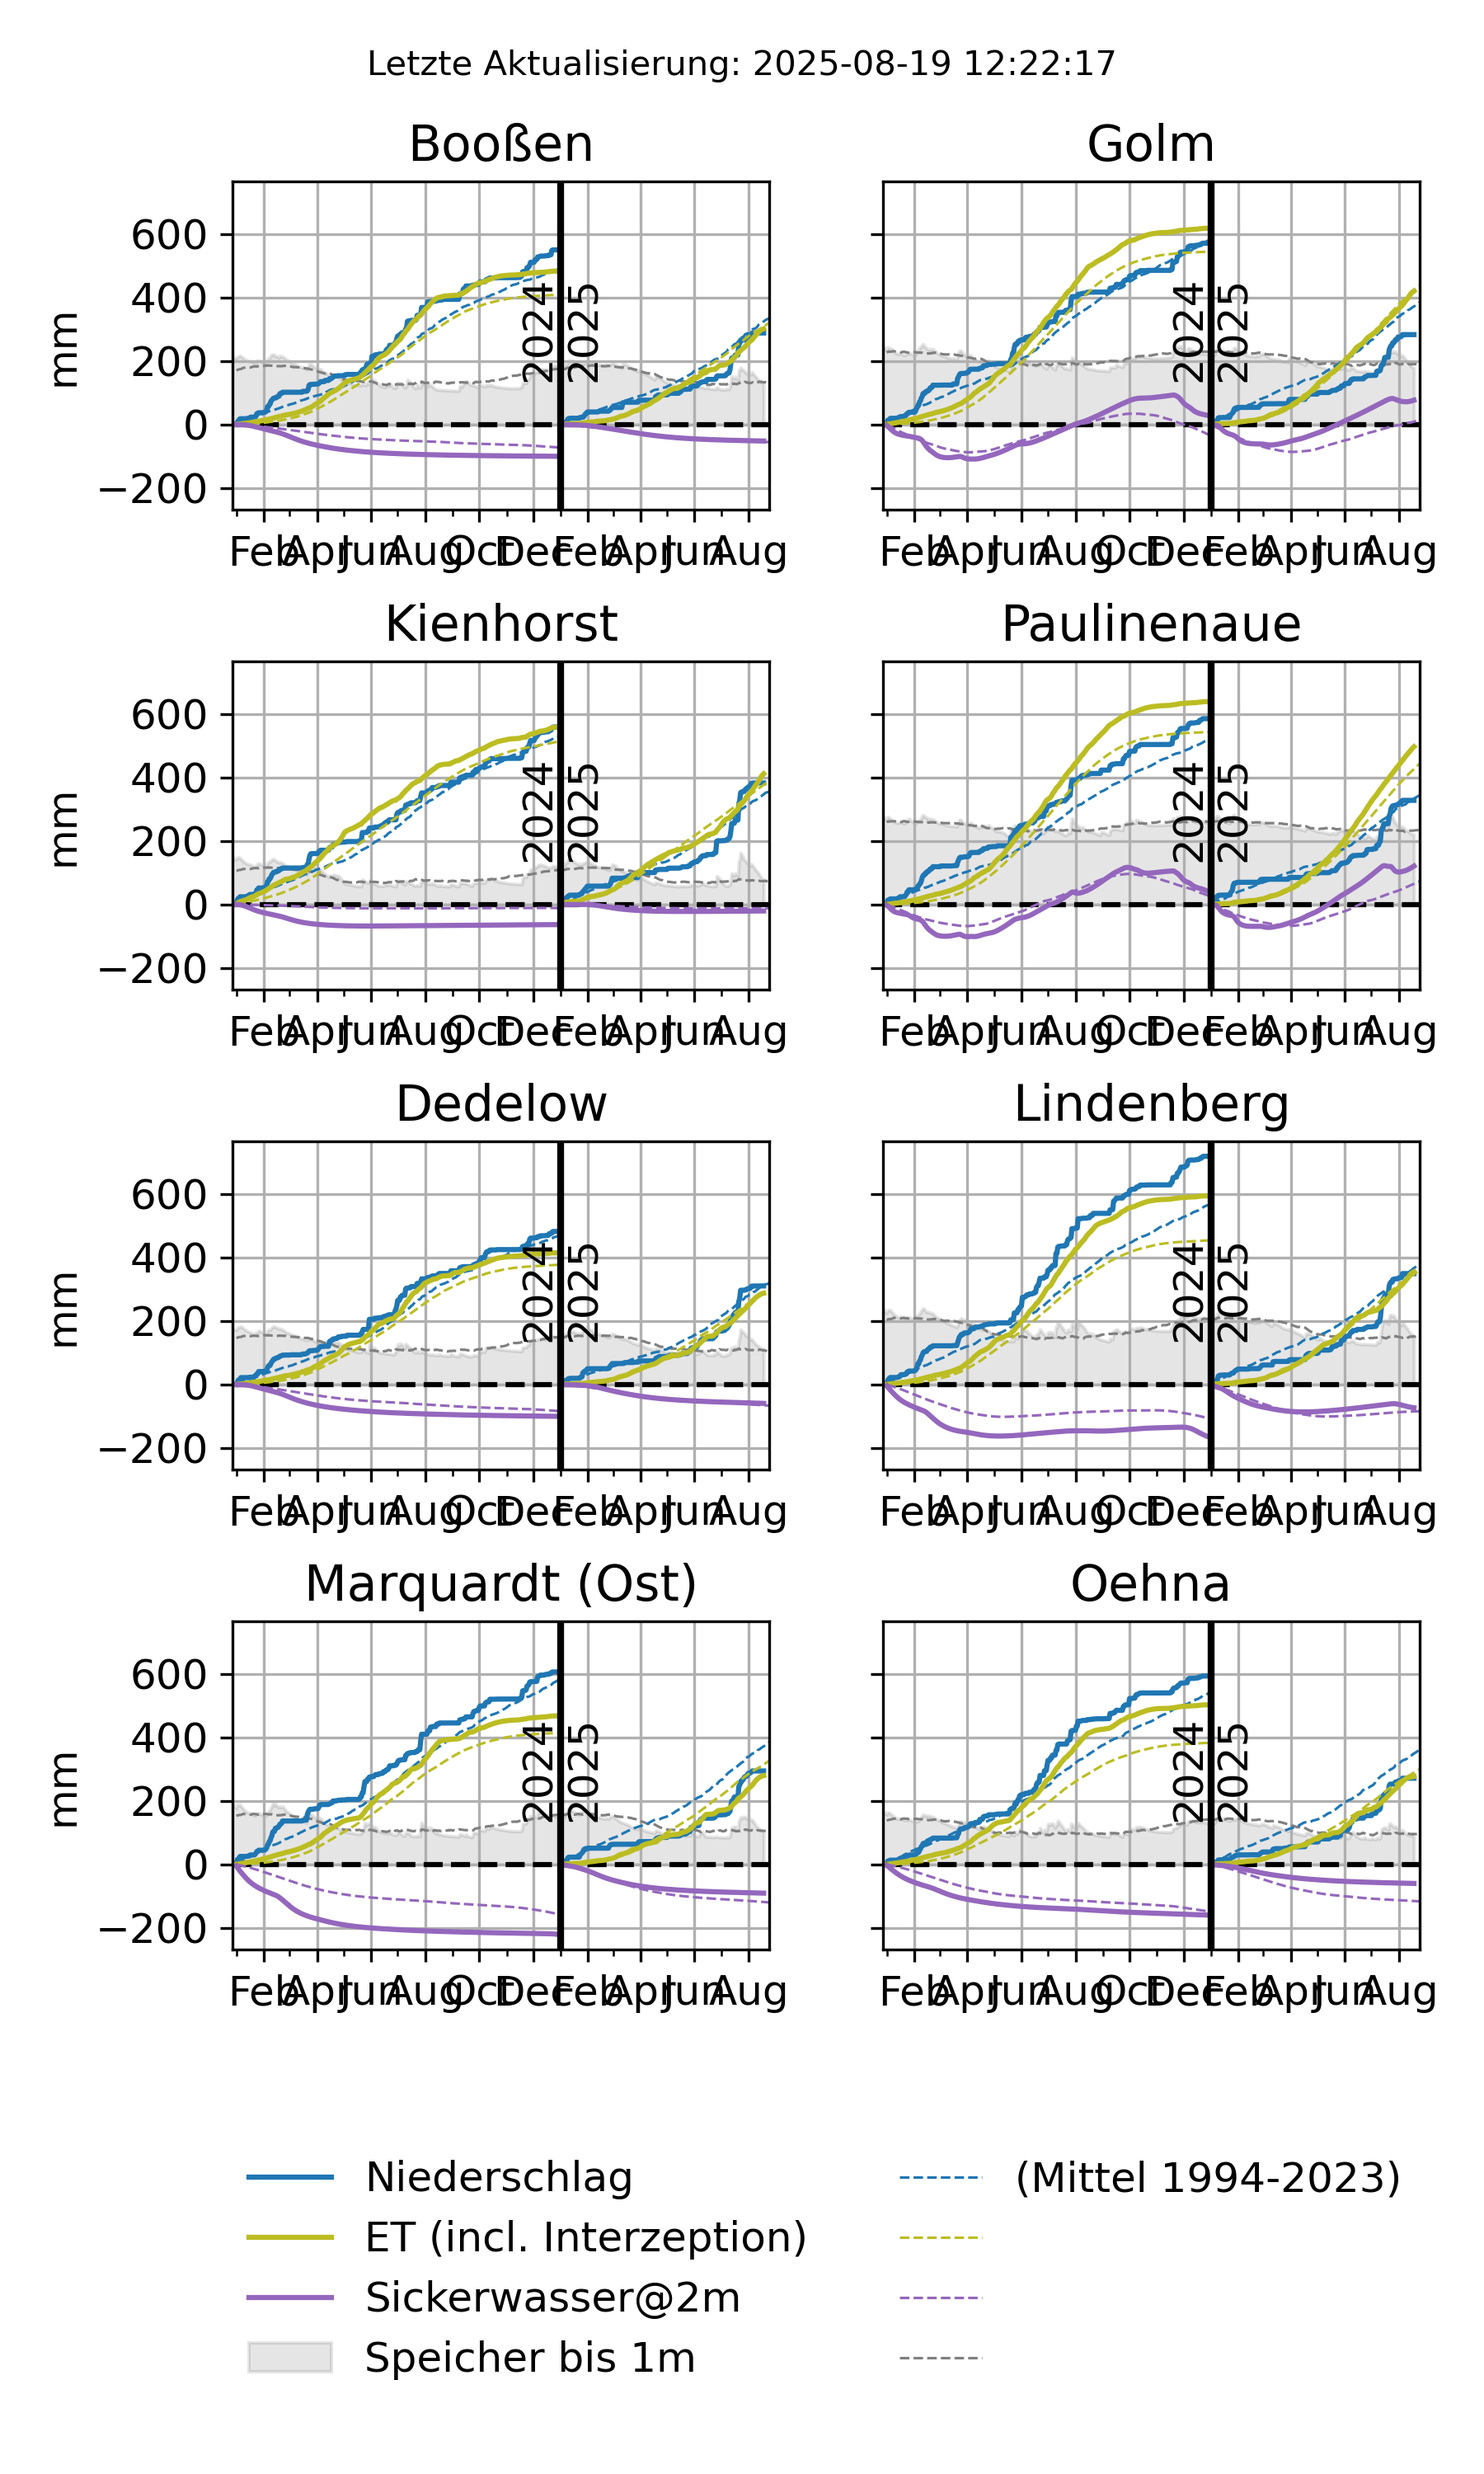
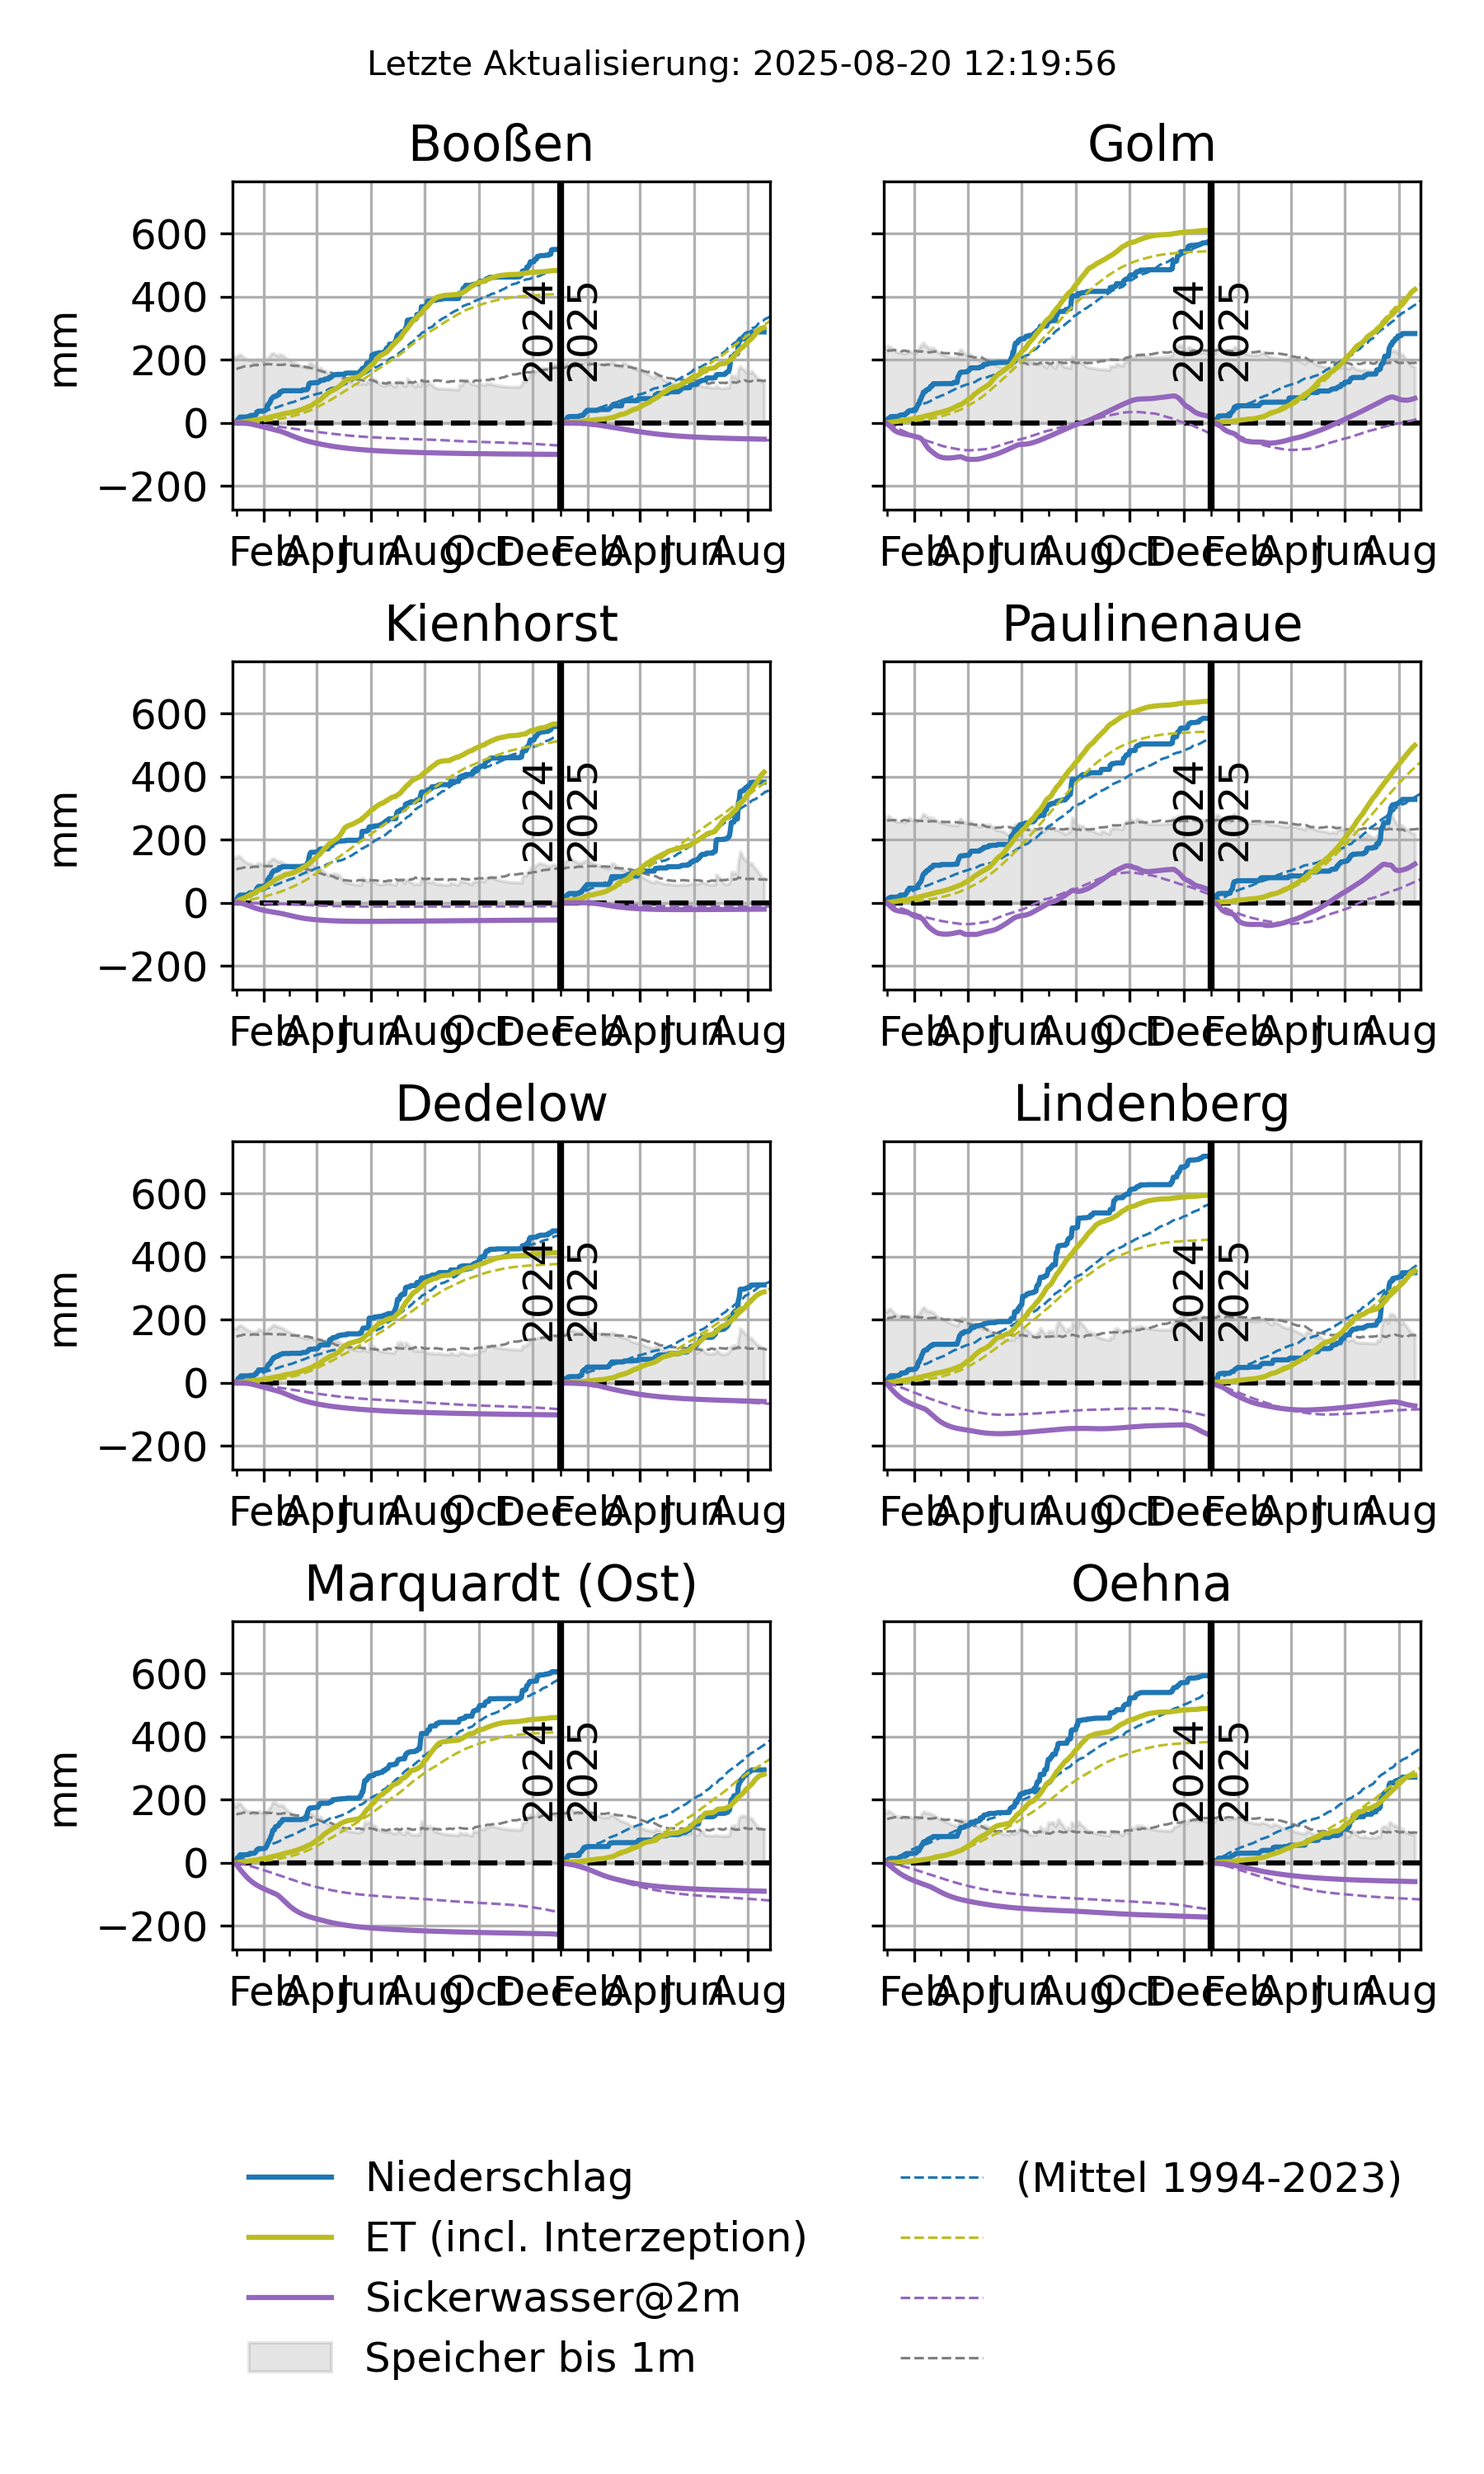
update monitor

diff --git a/de/aktuelles/index.md b/de/aktuelles/index.md
@@ -6,6 +6,10 @@ lang: de
 
 # Aktuelles
 
+### 2025-08-20
+
+Die durch den Ausfall der FTP-Übertragung zwischen dem 13. Juni und dem 16. Juli 2025 entstandenen Datenlücken wurden nun auch für die Standorte Paulinenaue (PAU) und Dedelow (DED) so weit wie möglich auf Grundlage der vom SD-Speicher sichergestellten Daten geschlossen. Für den Standort Paulinenaue (PAU) verbleibt allerdings aufgrund eines überfüllten SD-Speichers eine Datenlücke vom 18. Juni bis zum 16. Juli.
+
 ### 2025-07-17
 
 Die Datenübertragung an den Standorten Kienhorst (KH), Paulinenaue (PAU), Booßen (BOO), Dedelow/Quillow (DED) und Potsdam/Golm (GOL) ist seit dem 16. Juli 2025 wieder hergestellt. Für Kienhorst (KH), Booßen (BOO) und Potsdam/Golm (GOL) sind die durch den DFÜ-Ausfall entstandenen Datenlücken bereits geschlossen. Für Paulinenaue (PAU) und Dedelow/Quillow (DED) erfolgt die Schließung der Datenlücken in den kommenden Wochen. Eine entsprechende Statusmeldung wird dann erfolgen.

diff --git a/en/aktuelles/index.md b/en/aktuelles/index.md
@@ -6,6 +6,10 @@ lang: en
 
 # News
 
+### 2025-08-20
+
+The data gaps caused by the failure of the FTP transmission between June 13 and July 16, 2025 have now also been closed as far as possible for the sites Paulinenaue (PAU) and Dedelow (DED), based on the data secured from the SD memory card. However, at the Paulinenaue (PAU) site, a data gap remains from June 18 to July 16 due to an overloaded SD memory card.
+
 ### 2025-07-17
 
 Data transmission at the sites Kienhorst (KH), Paulinenaue (PAU), Booßen (BOO), Dedelow/Quillow (DED), and Potsdam/Golm (GOL) has been restored since July 16, 2025. For Kienhorst (KH), Booßen (BOO), and Potsdam/Golm (GOL), the data gaps caused by the remote data transmission failure have already been closed. For Paulinenaue (PAU) and Dedelow/Quillow (DED), the closing of the data gaps will take place in the coming weeks. A corresponding status update will then be provided.
